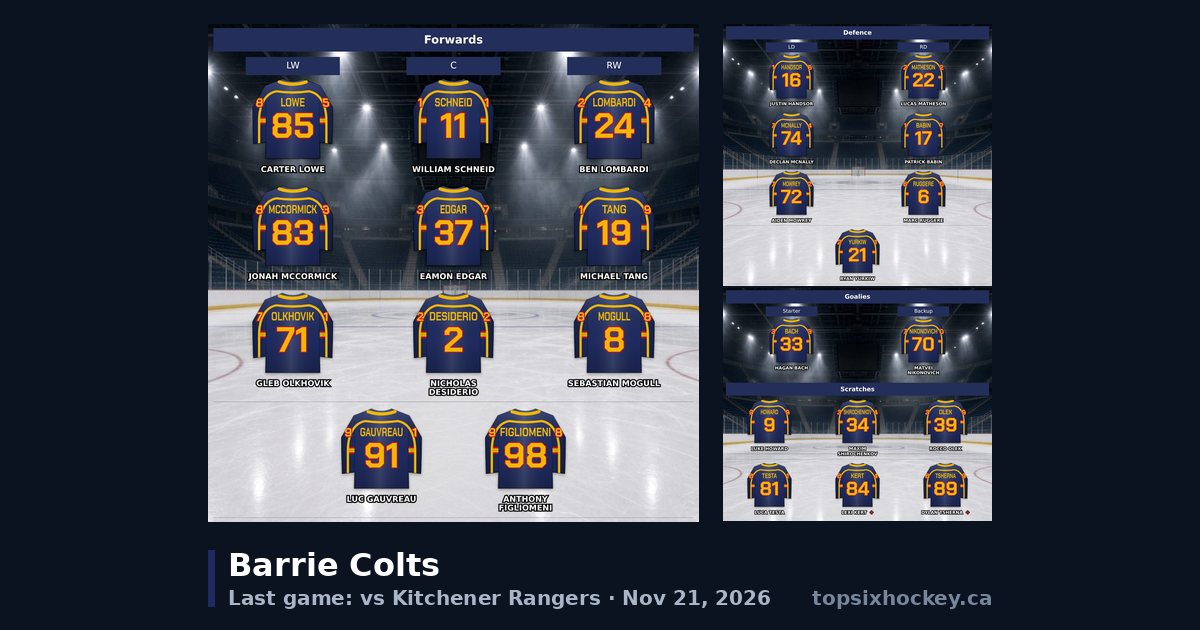
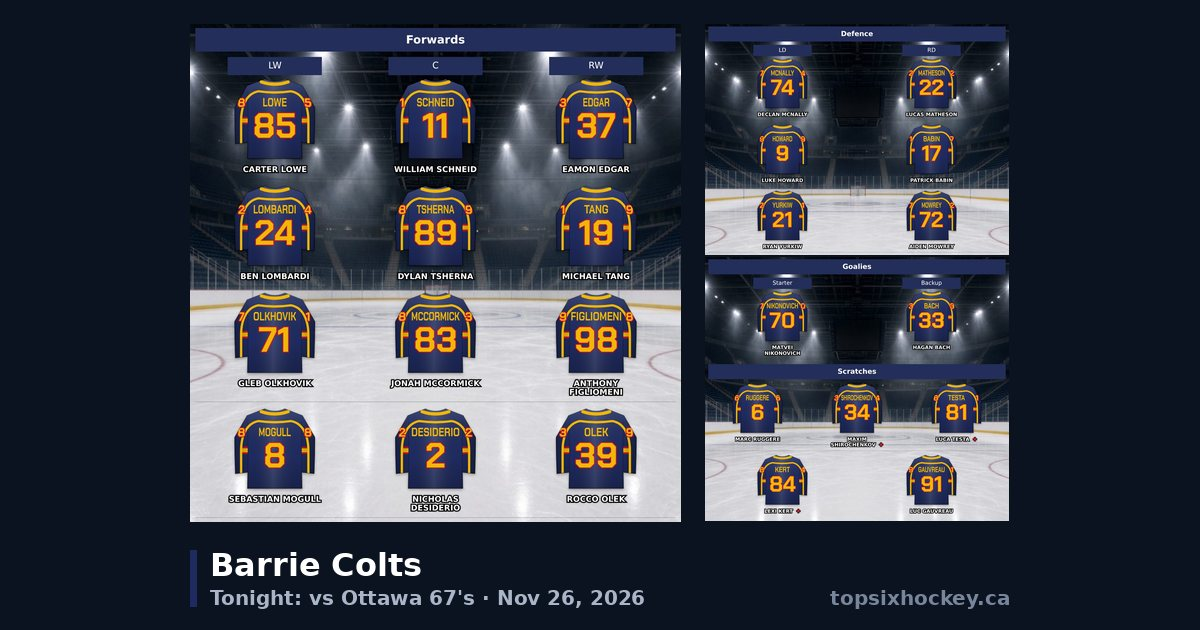
Update team share pages

diff --git a/ohl/barrie-colts/index.html b/ohl/barrie-colts/index.html
@@ -2,21 +2,21 @@
 <html lang="en"><head><meta charset="utf-8">
 <title>Barrie Colts Line Combinations | Top Six Hockey</title>
 <meta name="viewport" content="width=device-width, initial-scale=1">
-<meta name="description" content="Barrie Colts lines: forwards, defence pairings, goalies and scratches. Last game: vs Kitchener Rangers · Nov 21, 2026.">
+<meta name="description" content="Barrie Colts lines: forwards, defence pairings, goalies and scratches. Tonight: vs Ottawa 67&#x27;s · Nov 26, 2026.">
 <link rel="canonical" href="https://topsixhockey.ca/ohl/barrie-colts/">
 <meta property="og:type" content="website">
 <meta property="og:site_name" content="Top Six Hockey">
 <meta property="og:title" content="Barrie Colts lineup | Top Six Hockey">
-<meta property="og:description" content="Barrie Colts lines: forwards, defence pairings, goalies and scratches. Last game: vs Kitchener Rangers · Nov 21, 2026.">
+<meta property="og:description" content="Barrie Colts lines: forwards, defence pairings, goalies and scratches. Tonight: vs Ottawa 67&#x27;s · Nov 26, 2026.">
 <meta property="og:url" content="https://topsixhockey.ca/ohl/barrie-colts/">
-<meta property="og:image" content="https://topsixhockey.ca/og/ohl-barrie-colts.jpg?v=7e4d8f9cf9">
+<meta property="og:image" content="https://topsixhockey.ca/og/ohl-barrie-colts.jpg?v=5ad4008a19">
 <meta property="og:image:width" content="1200">
 <meta property="og:image:height" content="630">
 <meta name="twitter:card" content="summary_large_image">
 <meta name="twitter:site" content="@TopSixHockey6">
 <meta name="twitter:title" content="Barrie Colts lineup | Top Six Hockey">
-<meta name="twitter:description" content="Barrie Colts lines: forwards, defence pairings, goalies and scratches. Last game: vs Kitchener Rangers · Nov 21, 2026.">
-<meta name="twitter:image" content="https://topsixhockey.ca/og/ohl-barrie-colts.jpg?v=7e4d8f9cf9">
+<meta name="twitter:description" content="Barrie Colts lines: forwards, defence pairings, goalies and scratches. Tonight: vs Ottawa 67&#x27;s · Nov 26, 2026.">
+<meta name="twitter:image" content="https://topsixhockey.ca/og/ohl-barrie-colts.jpg?v=5ad4008a19">
 <script>location.replace("/?team=barrie");</script>
 </head><body style="margin:0;background:#0b1220;color:#fff;font:16px system-ui,sans-serif;display:flex;min-height:100vh;align-items:center;justify-content:center">
 <p>Opening the Barrie Colts lineup&hellip; <a style="color:#f2b705" href="/?team=barrie">Continue</a></p>
